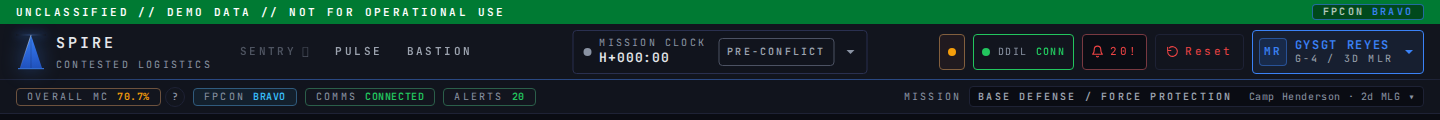
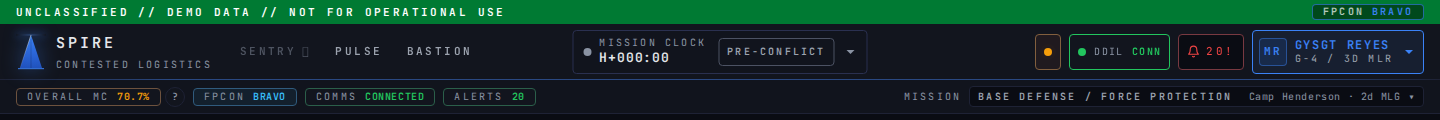
topbar: StageCluster is stage-only, Demo controls migrate to IdentityPill
Code-review pass 4 — addresses the "stage-only cluster" requirement.

  - StageCluster: drops the role prop and returns null in operator mode
    (belt-and-braces: TopBar also wraps with `{stageMode && ...}`).
    In stage mode showReset and showAudit reduce to true, matching the
    decluttered intent. Failsafe still gated on scenarioLoaded &&
    failsafeMode === "off".
  - TopBar: renders <StageCluster /> only when stageMode. Operator-mode
    spine is now strictly System + Notifications + Comms + Identity.
  - TopBar OperatorSettingsSection: adds a "Demo controls" sub-section
    with Reset (gated to role === "g4") and Failsafe (gated to
    scenarioLoaded && failsafeMode === "off"). Same role/scenario gates
    as the original inline chrome — role-gating preserved, but the
    affordances live inside the IdentityPill dropdown so the operator
    chrome stays decluttered.
  - topbar_layout.spec.ts: 14 scenarios.
    * REWROTE: operator-mode-g4 test asserts cluster ABSENT (was
      asserting Reset visible inside cluster).
    * NEW: "operator mode for non-g4" test asserts spine intact, no
      StageCluster, no Demo controls section.
    * NEW: "IdentityPill Demo controls expose Reset for g4 in operator
      mode" — verifies the cluster-replacement surface.
  - docs/topbar-anatomy.md: chip migration table updated for FailsafePill
    and ResetDemoButton — both now have a stage-mode home (cluster) and
    an operator-mode home (IdentityPill Demo controls).
[…]

Changed region(s): [[0.6562, 0.375, 0.875, 0.475], [0.6562, 0.55, 0.875, 0.6], [0.6562, 0.275, 0.875, 0.325]]

diff --git a/frontend/src/components/TopBar.tsx b/frontend/src/components/TopBar.tsx
@@ -4,6 +4,8 @@ import clsx from "clsx";
 import { ROLE_LABELS, useSpireStore, VIEW_SCOPE, type Density, type Role, type User } from "../state/store";
 import { api, type AuthUser } from "../api";
 import { formatApiError } from "../api-retry";
+import { useScenarioPlayer } from "../state/scenarioPlayer";
+import { useFailsafe } from "../state/failsafe";
 import { MissionClock } from "./MissionClock";
 import { CommsControl } from "./CommsControl";
 import { SystemStatusChip } from "./SystemStatusChip";
@@ -207,11 +209,12 @@ export function TopBar() {
           <CommsControl />
           {!stageMode && <PushToJointButton role={role} />}
           {!stageMode && <NotificationsChip />}
-          {/* StageCluster handles its own per-button gating so it renders
-           * in operator mode too (Audit always, Reset for g4, Failsafe
-           * when scenario loaded). The cluster styling adapts: warning
-           * border in stage mode, neutral border in operator mode. */}
-          <StageCluster role={role} />
+          {/* StageCluster is stage-only — the operator chrome stays
+           * decluttered (System + Notif + Comms + Identity). Operator
+           * access to Reset (g4) and Failsafe (when scenario loaded)
+           * lives in the IdentityPill OperatorSettingsSection's "Demo
+           * controls" rows so role-gating is preserved. */}
+          {stageMode && <StageCluster />}
           {/* MDM 2026 stage-pivot — multi-presenter handoff (WP-8). The
            * 4-up chip strip sits inline with the right group only in
            * stage mode and offers one-click identity swaps so the next
@@ -886,11 +889,49 @@ function OperatorSettingsSection({ role }: { role: Role }) {
   const setAirGap = useSpireStore((s) => s.setAirGap);
   const setQueueDepth = useSpireStore((s) => s.setQueueDepth);
   const queueDepth = useSpireStore((s) => s.queueDepth);
+  const setAlertCount = useSpireStore((s) => s.setAlertCount);
   const pushToast = useSpireStore((s) => s.pushToast);
   const density = useSpireStore((s) => s.density);
   const setDensity = useSpireStore((s) => s.setDensity);
   const ddilMode = useSpireStore((s) => s.ddilMode);
   const [airGapConfirm, setAirGapConfirm] = useState(false);
+  const [resetConfirm, setResetConfirm] = useState(false);
+  // Demo controls — preserves the operator-mode access to Reset (g4)
+  // and Failsafe (when scenario loaded) that the inline `<ResetDemoButton />`
+  // and `<FailsafePill />` chrome used to provide. The cluster itself is
+  // stage-only now, so these rows are how those affordances stay reachable.
+  const nav = useNavigate();
+  const scenarioLoaded = useScenarioPlayer((s) => s.scenarioId !== null);
+  const failsafeMode = useFailsafe((s) => s.mode);
+  const openFailsafe = useFailsafe((s) => s.openFullscreen);
+  const showFailsafeRow = scenarioLoaded && failsafeMode === "off";
+  const showResetRow = role === "g4";
+
+  const resetAction = useIdempotentAction(
+    "operator-settings:reset-demo",
+    async () => {
+      try {
+        const r = await api.system.resetDemo();
+        setAlertCount(0);
+        setAirGap(false);
+        setQueueDepth(0);
+        const seconds = (r.duration_ms / 1000).toFixed(2);
+        pushToast({
+          tone: r.ok ? "ok" : "warn",
+          text: r.ok
+            ? `SPIRE reset to clean demo state in ${seconds}s.`
+            : `Demo reset partial (${seconds}s) — ${r.failed_steps.length} step${r.failed_steps.length === 1 ? "" : "s"} failed.`,
+          ttlMs: 5000,
+        });
+        nav("/", { replace: true });
+      } catch (e) {
+        pushToast({ tone: "error", text: `Reset failed: ${formatApiError(e)}` });
+      } finally {
+        setResetConfirm(false);
+      }
+    },
+    { lockoutMs: 750 },
+  );
 
   const airGapAction = useIdempotentAction(
     `topbar:air-gap:${airGap ? "release" : "engage"}`,
@@ -1006,6 +1047,109 @@ function OperatorSettingsSection({ role }: { role: Role }) {
           {ddilMode}
         </span>
       </div>
+
+      {(showResetRow || showFailsafeRow) && (
+        <div
+          className="mt-1 border-t border-[var(--color-border)] pt-1"
+          data-testid="identity-demo-controls"
+        >
+          <div className="px-4 pt-1 pb-1 font-mono text-[10px] uppercase tracking-widest text-[var(--color-text-muted)]">
+            Demo controls
+          </div>
+          {showResetRow && (
+            <div className="flex items-center justify-between gap-3 px-4 py-1.5">
+              <div className="flex min-w-0 flex-col">
+                <span className="font-mono text-[11px] uppercase tracking-widest text-[var(--color-text-secondary)]">
+                  Reset SPIRE
+                </span>
+                <span className="font-mono text-[10px] tracking-wider text-[var(--color-text-muted)]">
+                  Return to clean t=0 demo state. (g4 only)
+                </span>
+              </div>
+              <button
+                type="button"
+                onClick={() => setResetConfirm(true)}
+                disabled={resetAction.pending}
+                data-testid="identity-reset-demo"
+                className="shrink-0 rounded-sm border border-[var(--color-danger)] bg-[var(--color-bg)] px-2 py-1 font-mono text-[11px] uppercase tracking-widest text-[var(--color-danger)] hover:bg-[color-mix(in_oklab,var(--color-danger-muted)_25%,var(--color-surface))] disabled:opacity-60"
+                aria-label="Reset SPIRE to clean demo state"
+              >
+                {resetAction.pending ? "Resetting…" : "Reset"}
+              </button>
+            </div>
+          )}
+          {showFailsafeRow && (
+            <div className="flex items-center justify-between gap-3 px-4 py-1.5">
+              <div className="flex min-w-0 flex-col">
+                <span className="font-mono text-[11px] uppercase tracking-widest text-[var(--color-text-secondary)]">
+                  Failsafe
+                </span>
+                <span className="font-mono text-[10px] tracking-wider text-[var(--color-text-muted)]">
+                  Replace live demo with the recorded backup.
+                </span>
+              </div>
+              <button
+                type="button"
+                onClick={() => {
+                  const ok = window.confirm(
+                    "Activate failsafe? The recorded backup will replace the live demo. Press OK only if the live demo has failed.",
+                  );
+                  if (ok) openFailsafe();
+                }}
+                data-testid="identity-failsafe"
+                className="shrink-0 rounded-sm border border-[var(--color-warning)] bg-[var(--color-bg)] px-2 py-1 font-mono text-[11px] uppercase tracking-widest text-[var(--color-warning)] hover:bg-[color-mix(in_oklab,var(--color-warning)_20%,var(--color-surface))]"
+                aria-label="Activate failsafe — replace live demo with recorded backup"
+              >
+                Activate
+              </button>
+            </div>
+          )}
+        </div>
+      )}
+
+      {resetConfirm && (
+        <div
+          className="fixed inset-0 z-[8800] flex items-center justify-center bg-black/60 backdrop-blur-sm"
+          onClick={() => !resetAction.pending && setResetConfirm(false)}
+          role="presentation"
+        >
+          <div
+            onClick={(e) => e.stopPropagation()}
+            className="m-4 max-w-md rounded-md border border-[var(--color-warning)] bg-[var(--color-surface)] p-5 shadow-2xl"
+            role="dialog"
+            aria-modal="true"
+            aria-labelledby="identity-reset-confirm-title"
+          >
+            <div id="identity-reset-confirm-title" className="font-mono text-xs uppercase text-[var(--color-warning)] tracking-widest">
+              Reset SPIRE
+            </div>
+            <h2 className="mt-1 font-sans text-lg font-semibold text-[var(--color-text)]">
+              Return to clean demo state?
+            </h2>
+            <p className="mt-2 text-sm text-[var(--color-text-secondary)]">
+              Clears alerts, restarts mission clock, re-seeds simulator. Continue?
+            </p>
+            <div className="mt-4 flex justify-end gap-2">
+              <button
+                type="button"
+                onClick={() => setResetConfirm(false)}
+                disabled={resetAction.pending}
+                className="rounded-sm border border-[var(--color-border)] bg-[var(--color-bg)] px-3 py-1.5 font-mono text-xs uppercase tracking-widest text-[var(--color-text-secondary)] hover:border-[var(--color-border-active)]"
+              >
+                Cancel
+              </button>
+              <button
+                type="button"
+                onClick={() => resetAction.run()}
+                disabled={resetAction.pending}
+                className="rounded-sm border border-[var(--color-warning)] bg-[color-mix(in_oklab,var(--color-warning)_18%,var(--color-surface))] px-3 py-1.5 font-mono text-xs uppercase tracking-widest text-[var(--color-warning)] hover:bg-[color-mix(in_oklab,var(--color-warning)_30%,var(--color-surface))] disabled:opacity-60"
+              >
+                {resetAction.pending ? "Resetting…" : "Reset demo"}
+              </button>
+            </div>
+          </div>
+        </div>
+      )}
 
       {airGapConfirm && (
         <div

diff --git a/tests/playwright/topbar_layout.spec.ts b/tests/playwright/topbar_layout.spec.ts
@@ -197,30 +197,48 @@ test.describe("TopBar declutter (Task #184)", () => {
     await expect(cluster.getByTestId("stage-cluster-failsafe")).toHaveCount(0);
   });
 
-  test("operator mode keeps stage-only controls hidden — Audit + Failsafe gated, Reset stays for g4", async ({ page }) => {
-    // The pre-declutter chrome rendered AuditPill only when stageMode is
-    // on (`{stageMode && <AuditPill />}`). The cluster preserves that
-    // exactly. Reset stays visible for g4 outside stage mode.
+  test("operator mode never shows the StageCluster — chrome stays decluttered", async ({ page }) => {
+    // Stage-only contract: the cluster must NOT appear in operator mode
+    // for any role, regardless of scenario state. Reset (g4) and Failsafe
+    // (when scenario loaded) are reachable through the IdentityPill
+    // Operator settings → Demo controls section instead.
     await page.setViewportSize(BREAKPOINTS.lg);
     await signIn(page, TEST_DODID);
-    const cluster = page.getByTestId("stage-cluster");
-    await expect(cluster).toBeVisible();
-    await expect(cluster).toHaveAttribute("data-stage-mode", "0");
-    await expect(cluster.getByTestId("stage-cluster-reset")).toBeVisible();
-    await expect(cluster.getByTestId("stage-cluster-audit")).toHaveCount(0);
-    await expect(cluster.getByTestId("stage-cluster-failsafe")).toHaveCount(0);
+    await expect(page.getByTestId("stage-cluster")).toHaveCount(0);
+    // Operator spine intact: System + Notif + Comms + Identity.
+    await expect(page.getByTestId("system-status-chip")).toBeVisible();
+    await expect(page.getByTestId("notifications-chip")).toBeVisible();
+    await expect(page.getByTestId("topbar-identity-pill")).toBeVisible();
   });
 
-  test("operator mode for non-g4 with no scenario hides the StageCluster entirely", async ({ page }) => {
-    // For Park (security_manager) outside stage mode with no scenario:
-    // Audit gated (stage-only), Reset gated (g4-only), Failsafe gated
-    // (no scenario). The cluster returns null — no empty rounded shell.
+  test("operator mode for non-g4 keeps spine intact, no StageCluster, no Demo controls", async ({ page }) => {
+    // Park (security_manager) outside stage mode with no scenario:
+    // - StageCluster: absent (stage-only)
+    // - Demo controls: absent (Reset is g4-only, Failsafe needs scenario)
+    // - Spine: present
     await page.setViewportSize(BREAKPOINTS.lg);
     await signIn(page, SECURITY_MANAGER_DODID);
     await expect(page.getByTestId("stage-cluster")).toHaveCount(0);
-    // SystemStatusChip is part of the spine and stays visible — only
-    // the stage-only cluster is gone.
     await expect(page.getByTestId("system-status-chip")).toBeVisible();
+    await page.keyboard.press("Escape");
+    await page.getByTestId("topbar-identity-pill").click();
+    await expect(page.getByTestId("identity-operator-settings")).toBeVisible();
+    await expect(page.getByTestId("identity-demo-controls")).toHaveCount(0);
+  });
+
+  test("IdentityPill Demo controls expose Reset for g4 in operator mode (cluster replacement)", async ({ page }) => {
+    // The pre-declutter chrome had `<ResetDemoButton />` inline for g4
+    // outside stage mode. The cluster moved to stage-only, so the Reset
+    // affordance migrated to IdentityPill → Operator settings → Demo
+    // controls. Same role gate, different surface.
+    await page.setViewportSize(BREAKPOINTS.lg);
+    await signIn(page, TEST_DODID);
+    await page.keyboard.press("Escape");
+    await page.getByTestId("topbar-identity-pill").click();
+    await expect(page.getByTestId("identity-demo-controls")).toBeVisible();
+    await expect(page.getByTestId("identity-reset-demo")).toBeVisible();
+    // No scenario loaded → Failsafe row is correctly hidden.
+    await expect(page.getByTestId("identity-failsafe")).toHaveCount(0);
   });
 
   test("IdentityPill menu hosts Operator settings (Air-gap, Density, Comms)", async ({ page }) => {

diff --git a/frontend/src/components/StageCluster.tsx b/frontend/src/components/StageCluster.tsx
@@ -3,24 +3,20 @@
  * Audit affordances. Replaces three side-by-side pills with one rounded
  * container so the right group reads as a single "stage controls" slot.
  *
- * The cluster honours each button's original gating so the operator
- * surface stays byte-equivalent to before the declutter:
+ * Stage-only: the cluster only renders when `stageMode === true`. The
+ * caller (TopBar) is expected to gate it with `{stageMode && ...}`.
+ * Operator-mode access to Reset and Failsafe is handled by the
+ * IdentityPill OperatorSettingsSection "Demo controls" rows (gated by
+ * `role === "g4"` and `scenarioLoaded` respectively), so the chrome is
+ * decluttered without losing any role-gated affordance.
  *
+ * Per-button gating inside the cluster (only evaluated when stageMode):
  *   - Failsafe: visible when a scenario is loaded and the failsafe is
- *     off (independent of stage mode).
- *   - Reset:    visible for `role === "g4"` outside stage mode; visible
- *     for any role inside stage mode (mirrors original ResetDemoButton).
- *   - Audit:    visible only in stage mode. The pre-declutter chrome
- *     guarded `AuditPill` with `{stageMode && <AuditPill />}`, so the
- *     icon is stage-only here too. (AuditView itself is reachable via
- *     direct nav in operator mode for g4 — the chrome chip was always
- *     stage-only.)
- *
- * The cluster renders nothing when none of its buttons are visible (so a
- * non-g4 operator with no scenario loaded never sees an empty rounded
- * shell). In operator mode for `role === "g4"` only the Reset button
- * renders inside the cluster, exactly mirroring the pre-declutter
- * `<ResetDemoButton />` chrome slot.
+ *     off (matches the original `<FailsafePill />` internal gate).
+ *   - Reset:    visible always (in stage mode `role === "g4" || stageMode`
+ *     reduces to `true`, matching the original `<ResetDemoButton />`).
+ *   - Audit:    visible always (matches the original
+ *     `{stageMode && <AuditPill />}` chrome).
  *
  * The cluster sits in one slot of the right group's visual budget — the
  * task's "at most 5 visible chips" target counts this container as one,
@@ -32,10 +28,10 @@ import { api } from "../api";
 import { formatApiError } from "../api-retry";
 import { useFailsafe } from "../state/failsafe";
 import { useScenarioPlayer } from "../state/scenarioPlayer";
-import { useSpireStore, type Role } from "../state/store";
+import { useSpireStore } from "../state/store";
 import { useIdempotentAction } from "./ui";
 
-export function StageCluster({ role }: { role: Role }) {
+export function StageCluster() {
   const stageMode = useSpireStore((s) => s.stageMode);
   const setAlertCount = useSpireStore((s) => s.setAlertCount);
   const setAirGap = useSpireStore((s) => s.setAirGap);
@@ -88,12 +84,14 @@ export function StageCluster({ role }: { role: Role }) {
     if (ok) openFullscreen();
   }
 
-  // Original gating preserved exactly. See file header for the table.
-  const showFailsafe = scenarioLoaded && failsafeMode === "off";
-  const showReset = stageMode || role === "g4";
-  const showAudit = stageMode;
+  // Stage-only by contract — return null in operator mode. The TopBar
+  // also gates this with `{stageMode && ...}`; this is belt-and-braces
+  // so stray render paths can't leak the cluster into operator chrome.
+  if (!stageMode) return null;
 
-  if (!showFailsafe && !showReset && !showAudit) return null;
+  const showFailsafe = scenarioLoaded && failsafeMode === "off";
+  const showReset = true;
+  const showAudit = true;
 
   // Stage mode shows the warning-bordered cluster (matches pre-declutter
   // dramatic chrome). Operator mode uses the standard border so the

diff --git a/docs/topbar-anatomy.md b/docs/topbar-anatomy.md
@@ -97,8 +97,8 @@ chip's stacking context. Tabs wrap. Tagline truncates.
 | AlertBadge (operator)     | `NotificationsChip` Alerts tab                    |
 | AlertBadge (stage)        | Backstop kept in stage mode for the dramatic ping |
 | DraftsBadge               | `NotificationsChip` Drafts tab                    |
-| FailsafePill              | `StageCluster` Failsafe icon (gated as before: scenario loaded + failsafe off, both modes) |
-| ResetDemoButton           | `StageCluster` Reset icon (gated as before: g4 in operator mode, any role in stage mode) |
+| FailsafePill              | Stage mode: `StageCluster` Failsafe icon. Operator mode: IdentityPill → Operator settings → Demo controls → Failsafe row (same gate: scenario loaded + failsafe off). |
+| ResetDemoButton           | Stage mode: `StageCluster` Reset icon. Operator mode: IdentityPill → Operator settings → Demo controls → Reset row (same gate: g4 only). |
 | AuditPill                 | `StageCluster` Audit icon (stage-only, matches the original `{stageMode && <AuditPill />}` chrome) |
 | AirGapToggle              | IdentityPill → Operator settings → Air-gap row    |
 | DensityToggle             | IdentityPill → Operator settings → Density radio  |
